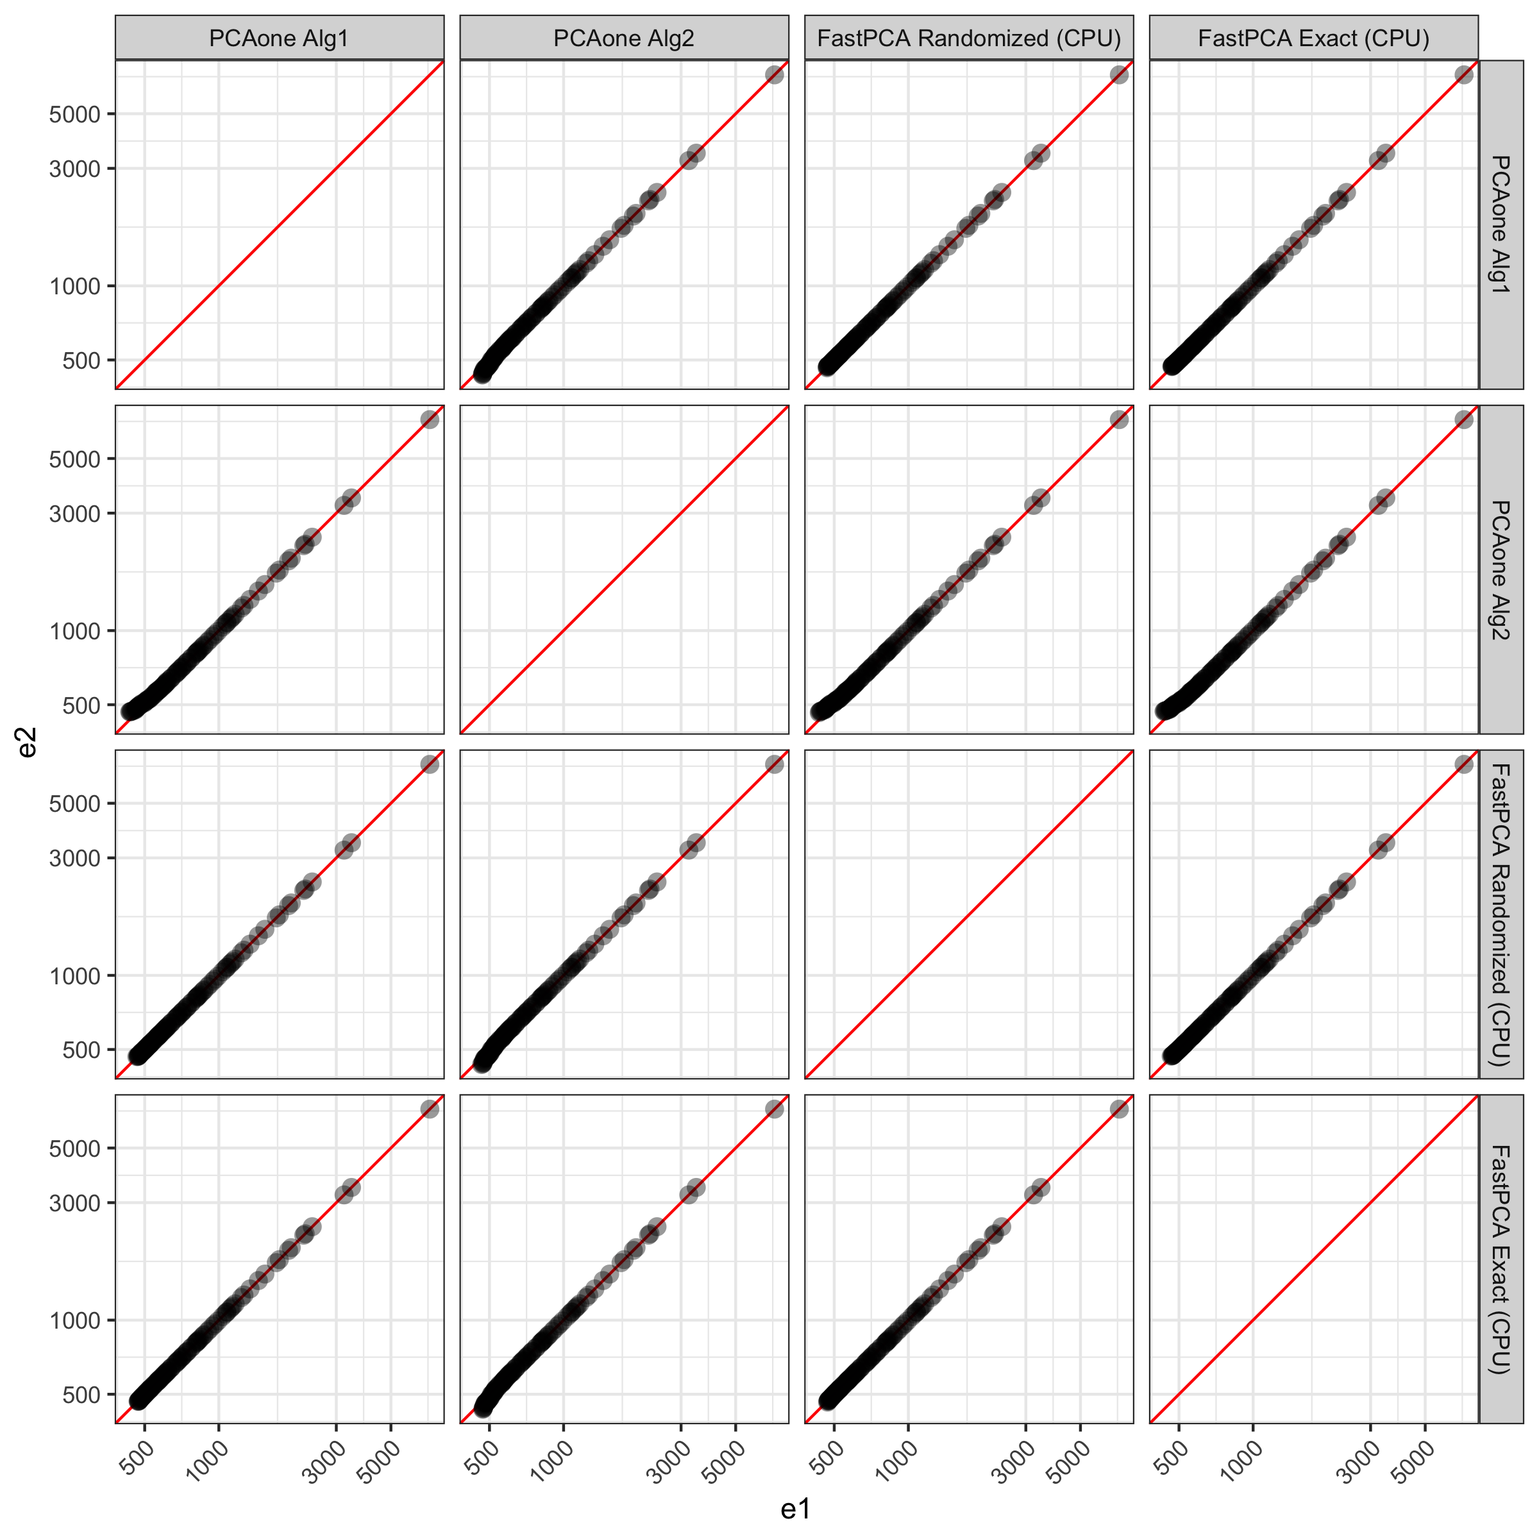
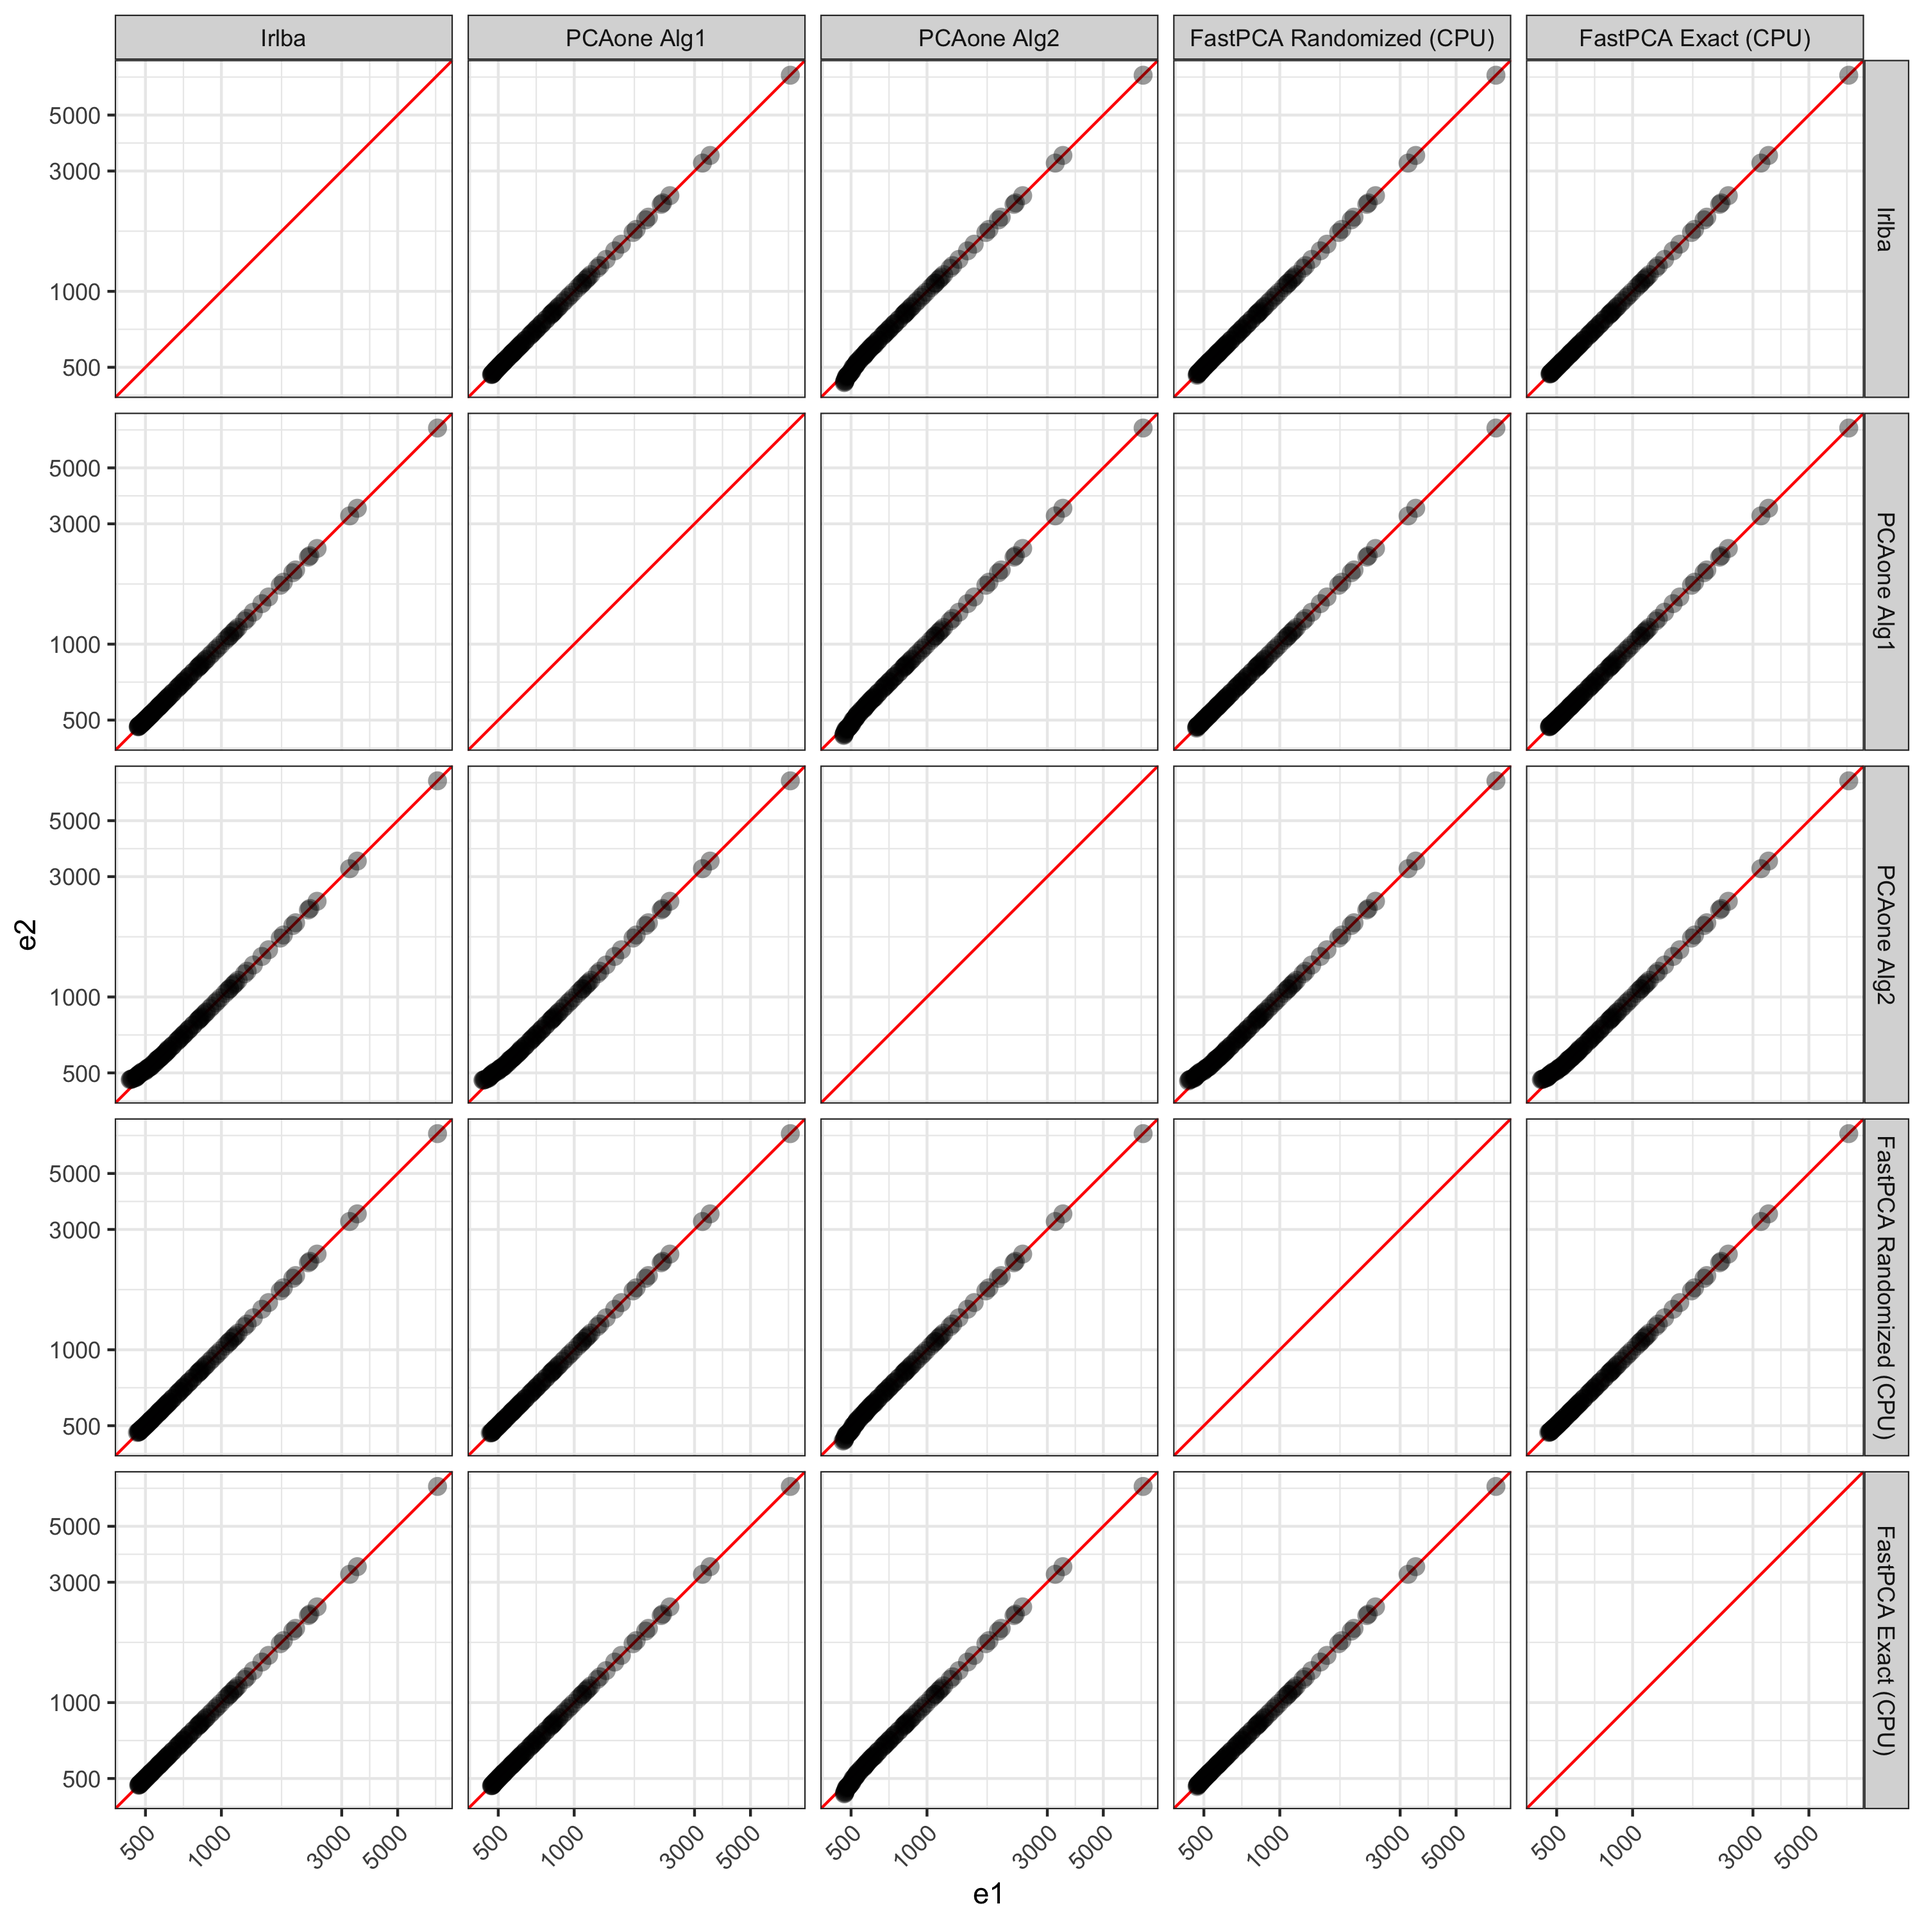
update with irlba comparison

Changed region(s): [[0.0312, 0.0, 1.0, 0.9688], [0.5, 0.9688, 0.5312, 1.0], [0.0, 0.4688, 0.0312, 0.5]]

diff --git a/README.md b/README.md
@@ -7,11 +7,11 @@
 
 <!-- badges: end -->
 
-The goal of FastPCA is to speed up calculations of singular value
+The goal of `FastPCA` is to speed up calculations of singular value
 decomposition (SVD) by leveraging the large about of work that has gone
 into python libraries, specifically PyTorch, for matrix operations.
-FastPCA offers similar performance to other highly optimized SVD methods
-in R (see below) while being an order of magnitude faster.
+`FastPCA` offers similar performance to other highly optimized SVD
+methods in R (see below) while being an order of magnitude faster.
 
 ## Installation
 
@@ -35,22 +35,28 @@ have run the
 [`PCAone`](https://cran.r-project.org/web/packages/pcaone/index.html)
 package with both of their algorithms. For each of the methods, I
 calculated 100 dimensions from the data using 10 oversampling dimensions
-as well as 10 power iterations. The speed difference was:
+as well as 10 power iterations. Additionally, I tested the commonly used
+[`irlba`](https://cran.r-project.org/web/packages/irlba/index.html)
+pacakge using `work=200` for a similar 200 dims in `FastPCA` and
+`PCAone`. The speed difference was:
 
 |                          | User Time (s) | System Time (s) | Elapsed Time (s) |
 |:-------------------------|--------------:|----------------:|:-----------------|
+| Irlba                    |       143.832 |           1.168 | **145.354**      |
 | PCAone Alg1              |        44.805 |           0.574 | **45.556**       |
 | PCAone Alg2              |        48.518 |           0.743 | **49.446**       |
 | FastPCA Randomized (CPU) |        19.898 |           5.227 | **5.306**        |
 | FastPCA Randomized (GPU) |         0.799 |           0.638 | **0.939**        |
 | FastPCA Exact (CPU)      |        79.694 |          11.564 | **35.819**       |
 
-Memory does appear to be greater when using FastPCA over PCAone
-(profiled with
-[`profmem`](https://cran.r-project.org/web/packages/profmem/)):
+Memory does appear to be greater when using `FastPCA` over `PCAone`, but
+`irlba` also has higher memory usage than both when estimating top
+dimensions (except with `FastPCA` estimating all dimensions; profiled
+with [`profmem`](https://cran.r-project.org/web/packages/profmem/)):
 
 |                          | Memory   |
 |:-------------------------|:---------|
+| Irlba                    | 660.3 Mb |
 | PCAone Alg1              | 77.5 Mb  |
 | PCAone Alg2              | 77.5 Mb  |
 | FastPCA Randomized (CPU) | 163.1 Mb |
@@ -60,13 +66,39 @@ Memory does appear to be greater when using FastPCA over PCAone
 ### Results
 
 First exploring the eigenvalues calculated by all methods, on the high
-end they are all very similar as expected. FastPCA uses essentially the
-same method as PCAone uses for `'alg1'` so its logical that PCAone with
-`'alg1'` produces results much more siilar to FastPCA. Interestingly,
-FastPCA without random projection and power iterations produces results
-more similar to `'alg1'` and FastPCA’s Randomized method.
+end they are all very similar as expected. `FastPCA` uses essentially
+the same method as `PCAone` uses for `'alg1'` so its logical that
+`PCAone` with `'alg1'` produces results much more similar to `FastPCA`.
+Interestingly, `FastPCA` without random projection and power iterations
+produces results more similar to `'alg1'` and `FastPCA`’s Randomized
+method. `irlba` also produces resutls very in line with those from the
+full output of `FastPCA`’s exact.
 
 <img src="man/figures/README-eigenvalue_against-1.png" width="75%" style="display: block; margin: auto;" />
+
+The values start to deviate after ~50 dimensions between `PCAone`’s
+`'alg1'` compared to `FastPCA` and `irlba`.
+
+| Dimension | Irlba | PCAone Alg1 | PCAone Alg2 | FastPCA Randomized (CPU) | FastPCA Exact (CPU) |
+|:---|---:|---:|---:|---:|---:|
+| PC45 | 708.8466 | 708.8466 | 708.7793 | 708.8466 | 708.8466 |
+| PC46 | 699.7265 | 699.7265 | 698.8108 | 699.7265 | 699.7265 |
+| PC47 | 686.3112 | 686.3112 | 686.0771 | 686.3112 | 686.3112 |
+| PC48 | 684.1567 | 684.1567 | 684.0269 | 684.1567 | 684.1567 |
+| PC49 | 677.2385 | 677.2385 | 677.1451 | 677.2385 | 677.2385 |
+| PC50 | 670.5312 | 670.5312 | 669.8761 | 670.5312 | 670.5312 |
+| PC51 | 664.5754 | 664.5754 | 664.4825 | 664.5754 | 664.5754 |
+| PC52 | 642.7470 | 642.7469 | 642.2740 | 642.7469 | 642.7470 |
+| PC53 | 641.3331 | 641.3331 | 640.7761 | 641.3329 | 641.3331 |
+| PC54 | 634.0135 | 634.0134 | 633.3070 | 634.0134 | 634.0135 |
+
+Visualizing PCs past 45, we can see the discrepancies better. `PCAone`’s
+`'alg2'` shows more deviation from all other methods. Compared to the
+Exact solution from `FastPCA`, `irlba`, `PCAone` with `'alg1'`, and
+`FastPCA`’s randomized method all match very well up to the 100 PCs
+returned.
+
+<img src="man/figures/README-eigenvalue_against_45-1.png" width="75%" style="display: block; margin: auto;" />
 
 ## Example
 
